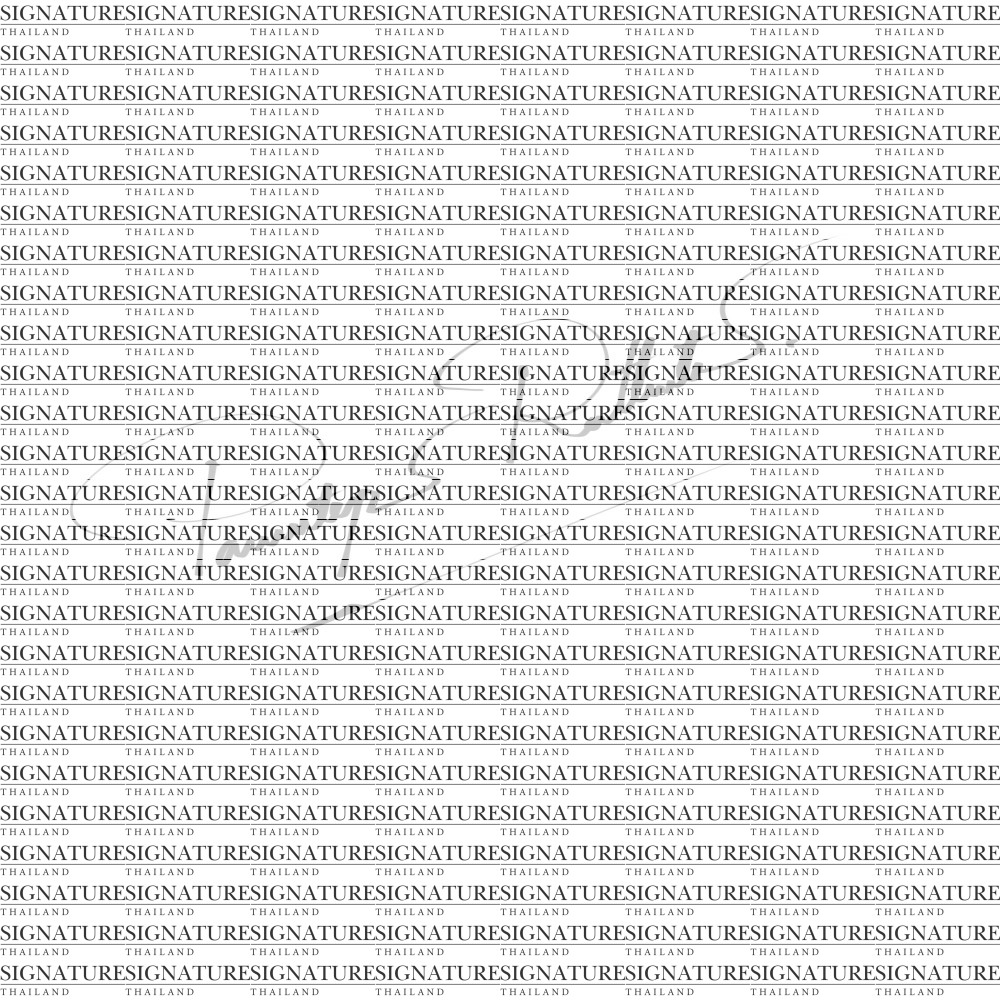
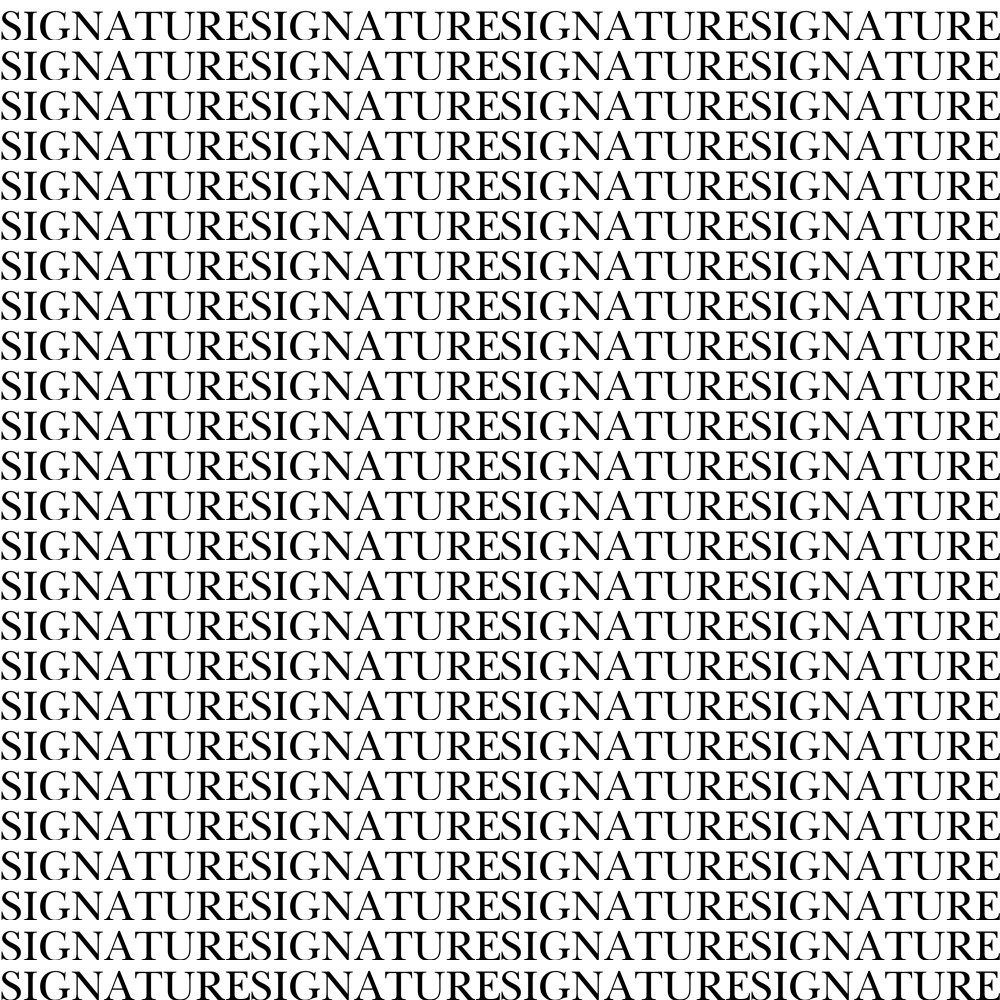
20240305 เช้า

diff --git a/app/Main/SideMenu.php b/app/Main/SideMenu.php
@@ -55,13 +55,13 @@ class SideMenu
                 'sub_menu' => [
                     'reports-sell' => [
                         'icon' => 'Dollar Sign',
-                        'route_name' => 'BN_reports',
+                        'route_name' => 'BN_reports_sells',
                         'params' => [],
-                        'title' => 'การขาย'
+                        'title' => 'ขาย'
                     ],
                     'reports-order' => [
                         'icon' => 'EditI',
-                        'route_name' => 'BN_reports',
+                        'route_name' => 'BN_reports_orders',
                         'params' => [],
                         'title' => 'รายการสั่งทำ'
                     ],
@@ -80,13 +80,13 @@ class SideMenu
                 'sub_menu' => [
                     'names-all' => [
                         'icon' => 'Folder',
-                        'route_name' => 'BN_works',
+                        'route_name' => 'BN_works_assign',
                         'params' => [],
                         'title' => 'มอบหมายงาน'
                     ],
                     'names-suggest' => [
                         'icon' => 'Folder Plus',
-                        'route_name' => 'BN_works',
+                        'route_name' => 'BN_works_assign',
                         'params' => [],
                         'title' => 'ตารางงาน'
                     ]

diff --git a/routes/web.php b/routes/web.php
@@ -176,7 +176,8 @@ Route::middleware('auth')->group(function() {
             Route::get('', [BackendPageController::class, 'BN_signs'])->name('BN_signs');
         });
         Route::prefix('works')->group(function () {
-            Route::get('', [BackendPageController::class, 'BN_works'])->name('BN_works');
+            Route::get('', [WorksController::class, 'BN_works'])->name('BN_works');
+            Route::get('assign', [WorksController::class, 'BN_works_assign'])->name('BN_works_assign');
         });
         Route::prefix('commissions')->group(function () {
             Route::get('', [BackendPageController::class, 'BN_commissions'])->name('BN_commissions');
@@ -193,7 +194,9 @@ Route::middleware('auth')->group(function() {
             Route::get('detail', [ContactsController::class, 'BN_contacts_detail'])->name('BN_contacts_detail');
         });
         Route::prefix('reports')->group(function () {
-            Route::get('', [BackendPageController::class, 'BN_reports'])->name('BN_reports');
+            Route::get('', [ReportsController::class, 'BN_reports'])->name('BN_reports');
+            Route::get('sells', [ReportsController::class, 'BN_reports_sells'])->name('BN_reports_sells');
+            Route::get('orders', [ReportsController::class, 'BN_reports_orders'])->name('BN_reports_orders');
         });
         Route::prefix('users')->group(function () {
 

diff --git a/resources/views/backend/reports-orders.blade.php b/resources/views/backend/reports-orders.blade.php
@@ -1,0 +1,36 @@
+@extends('../backend/layout/side-menu')
+
+@section('subhead')
+    <title>Backend - {{$default_pagename}}</title>
+@endsection
+
+@section('subcontent')
+<?php
+// echo "<pre>";
+// print_r($page_name);
+// echo "</pre>";
+?>
+    <div class="intro-y mt-5 flex flex-col items-center sm:flex-row">
+        <h2 class="mr-auto text-lg font-medium">{{$default_pagename}}</h2>
+        <div class="mt-4 flex w-full sm:mt-0 sm:w-auto">
+            <a href="{{route('BN_users_add')}}" class="transition duration-200 border inline-flex items-center justify-center py-2 px-3 rounded-md font-medium cursor-pointer focus:ring-4 focus:ring-primary focus:ring-opacity-20 focus-visible:outline-none dark:focus:ring-slate-700 dark:focus:ring-opacity-50 [&amp;:hover:not(:disabled)]:bg-opacity-90 [&amp;:hover:not(:disabled)]:border-opacity-90 [&amp;:not(button)]:text-center disabled:opacity-70 disabled:cursor-not-allowed bg-primary border-primary text-white dark:border-primary mr-2 shadow-md" >เพิ่มยูสเซอร์</a>    
+        </div>
+    </div>
+    <!-- <div id="fetchUserss"></div> -->
+
+    
+    
+
+
+
+
+@endsection
+
+@section('script')
+<script>
+
+
+</script>
+
+
+@endsection

diff --git a/resources/views/backend/reports-sells.blade.php b/resources/views/backend/reports-sells.blade.php
@@ -1,0 +1,36 @@
+@extends('../backend/layout/side-menu')
+
+@section('subhead')
+    <title>Backend - {{$default_pagename}}</title>
+@endsection
+
+@section('subcontent')
+<?php
+// echo "<pre>";
+// print_r($page_name);
+// echo "</pre>";
+?>
+    <div class="intro-y mt-5 flex flex-col items-center sm:flex-row">
+        <h2 class="mr-auto text-lg font-medium">{{$default_pagename}}</h2>
+        <div class="mt-4 flex w-full sm:mt-0 sm:w-auto">
+            <a href="{{route('BN_users_add')}}" class="transition duration-200 border inline-flex items-center justify-center py-2 px-3 rounded-md font-medium cursor-pointer focus:ring-4 focus:ring-primary focus:ring-opacity-20 focus-visible:outline-none dark:focus:ring-slate-700 dark:focus:ring-opacity-50 [&amp;:hover:not(:disabled)]:bg-opacity-90 [&amp;:hover:not(:disabled)]:border-opacity-90 [&amp;:not(button)]:text-center disabled:opacity-70 disabled:cursor-not-allowed bg-primary border-primary text-white dark:border-primary mr-2 shadow-md" >เพิ่มยูสเซอร์</a>    
+        </div>
+    </div>
+    <!-- <div id="fetchUserss"></div> -->
+
+    
+    
+
+
+
+
+@endsection
+
+@section('script')
+<script>
+
+
+</script>
+
+
+@endsection

diff --git a/resources/views/backend/works-assign.blade.php b/resources/views/backend/works-assign.blade.php
@@ -1,0 +1,36 @@
+@extends('../backend/layout/side-menu')
+
+@section('subhead')
+    <title>Backend - {{$default_pagename}}</title>
+@endsection
+
+@section('subcontent')
+<?php
+// echo "<pre>";
+// print_r($page_name);
+// echo "</pre>";
+?>
+    <div class="intro-y mt-5 flex flex-col items-center sm:flex-row">
+        <h2 class="mr-auto text-lg font-medium">{{$default_pagename}}</h2>
+        <div class="mt-4 flex w-full sm:mt-0 sm:w-auto">
+            <a href="{{route('BN_users_add')}}" class="transition duration-200 border inline-flex items-center justify-center py-2 px-3 rounded-md font-medium cursor-pointer focus:ring-4 focus:ring-primary focus:ring-opacity-20 focus-visible:outline-none dark:focus:ring-slate-700 dark:focus:ring-opacity-50 [&amp;:hover:not(:disabled)]:bg-opacity-90 [&amp;:hover:not(:disabled)]:border-opacity-90 [&amp;:not(button)]:text-center disabled:opacity-70 disabled:cursor-not-allowed bg-primary border-primary text-white dark:border-primary mr-2 shadow-md" >เพิ่มยูสเซอร์</a>    
+        </div>
+    </div>
+    <!-- <div id="fetchUserss"></div> -->
+
+    
+    
+
+
+
+
+@endsection
+
+@section('script')
+<script>
+
+
+</script>
+
+
+@endsection

diff --git a/app/Http/Controllers/Backend/BackendPageController.php b/app/Http/Controllers/Backend/BackendPageController.php
@@ -39,10 +39,10 @@ class BackendPageController extends Controller
 
         $imageWidth = $image->width();
         $imageHeight = $image->height();
-        $watermark = Image::make($watermarkPath)->resize(125, null, function ($constraint) {
+        $watermark = Image::make($watermarkPath)->resize(250, null, function ($constraint) {
             $constraint->aspectRatio();
         });
-        $watermark->opacity(75);
+        $watermark->opacity(100);
         // $watermark->rotate(45);
         $stepSizeX = $watermark->width();
         $stepSizeY = 40;

diff --git a/app/Http/Controllers/Backend/ReportsController.php b/app/Http/Controllers/Backend/ReportsController.php
@@ -7,5 +7,16 @@ use Illuminate\Http\Request;
 
 class ReportsController extends Controller
 {
-    //
+    public function BN_reports_sells(Request $request)
+    {
+        return view('backend/reports-sells', [
+            'default_pagename' => 'การขายทั้งหมด',
+        ]);
+    }
+    public function BN_reports_orders(Request $request)
+    {
+        return view('backend/reports-orders', [
+            'default_pagename' => 'การสั่งออกแบบทั้งหมด',
+        ]);
+    }
 }

diff --git a/app/Http/Controllers/Backend/WorksController.php b/app/Http/Controllers/Backend/WorksController.php
@@ -7,5 +7,11 @@ use Illuminate\Http\Request;
 
 class WorksController extends Controller
 {
-    //
+    public function BN_works_assign(Request $request)
+    {
+
+        return view('backend/works-assign', [
+            'default_pagename' => 'มอบหมายงาน',
+        ]);
+    }
 }
